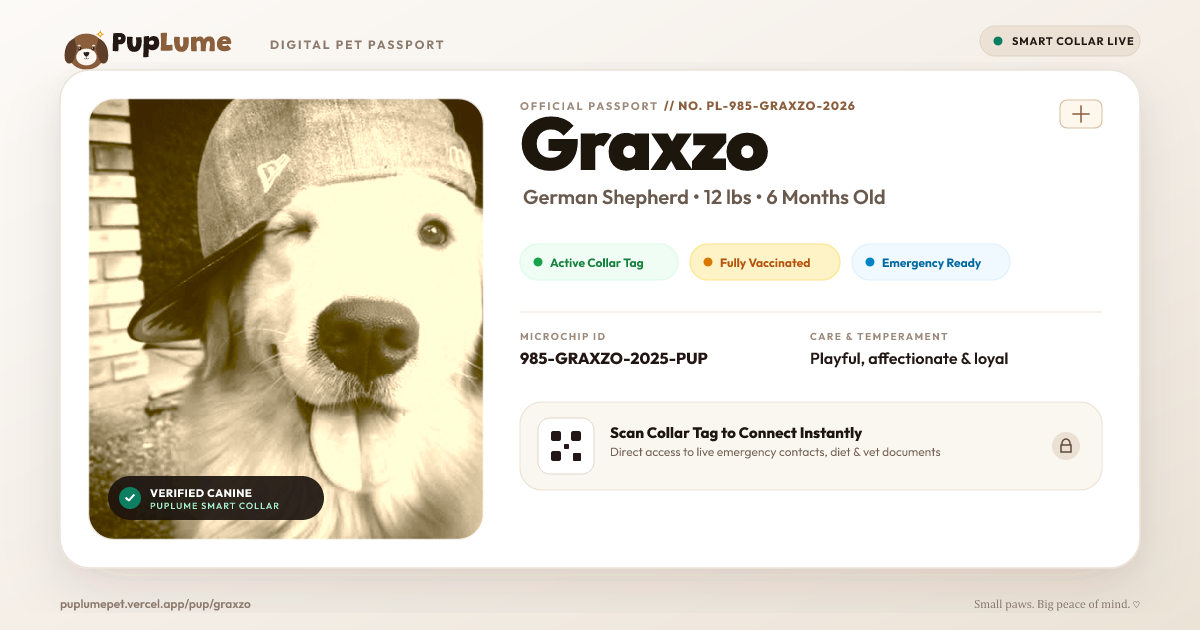
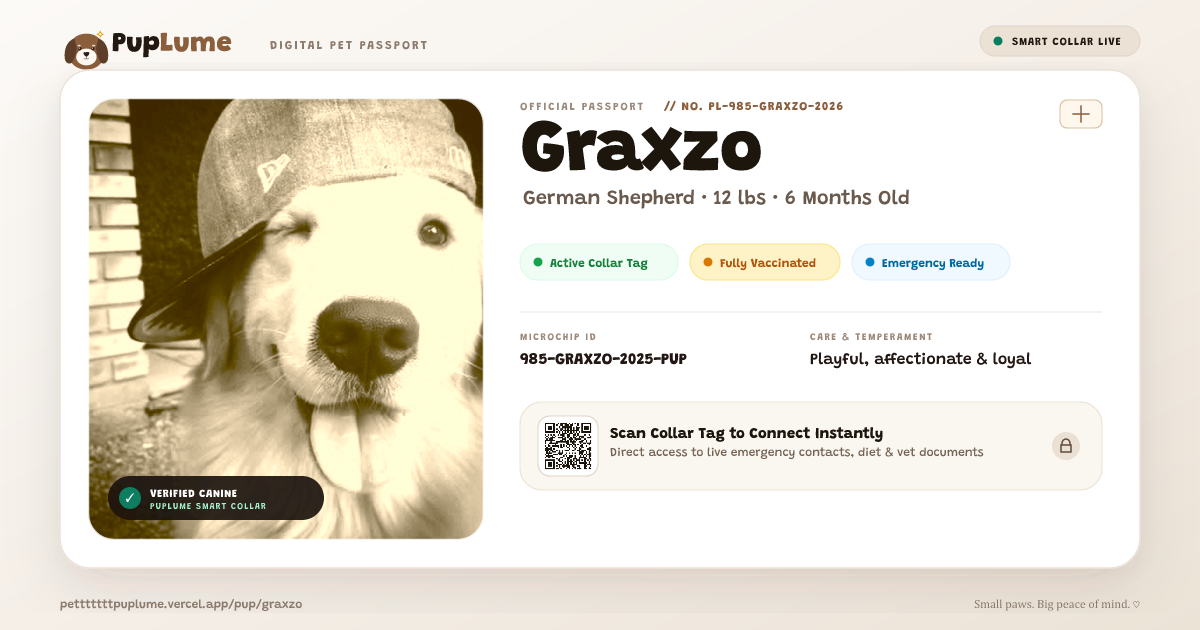
fix(share): integrate dynamic scannable QR passport card and update static fallback previews with real QR matrix

diff --git a/src/components/common/ShareModal.tsx b/src/components/common/ShareModal.tsx
@@ -278,11 +278,16 @@ export const ShareModal: React.FC<ShareModalProps> = ({
     setIsDownloadingCard(true);
 
     try {
-      const isGraxzo = puppy.name?.toLowerCase() === 'graxzo' || url.toLowerCase().includes('graxzo');
-      const cardUrl = isGraxzo ? '/og-graxzo.png?v=2' : '/og-pup-preview.png?v=2';
+      const slug = puppy.tagId || (puppy as any).slug || puppy.name?.toLowerCase().trim() || 'puppy';
+      // Fetch dynamic high-res passport card with real scannable QR code from marketing engine
+      const dynamicCardUrl = `https://petttttttpuplume.vercel.app/api/og/pup?slug=${encodeURIComponent(slug)}`;
+      const fallbackLocalUrl = puppy.name?.toLowerCase() === 'graxzo' ? '/og-graxzo.png?v=3' : '/og-pup-preview.png?v=3';
       const filename = `${puppy.name.toLowerCase().replace(/\s+/g, '-')}-passport-card.png`;
 
-      const response = await fetch(cardUrl);
+      let response = await fetch(dynamicCardUrl).catch(() => null);
+      if (!response || !response.ok) {
+        response = await fetch(fallbackLocalUrl).catch(() => null);
+      }
       if (response.ok) {
         const blob = await response.blob();
         triggerDownload(blob, filename);
